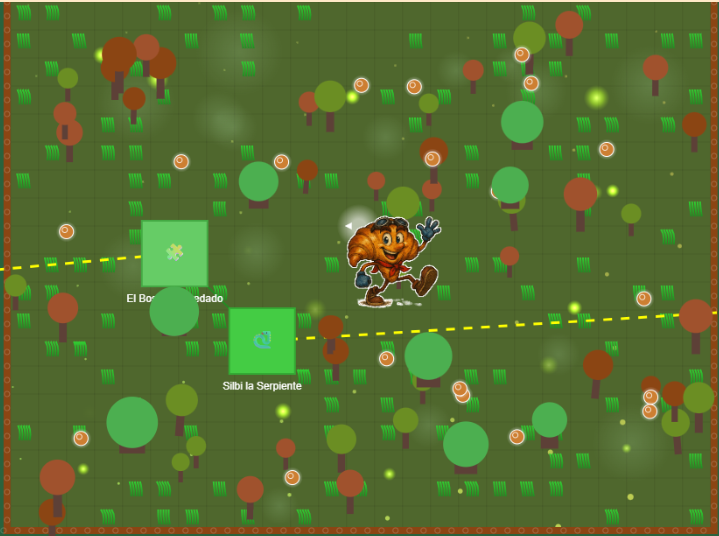
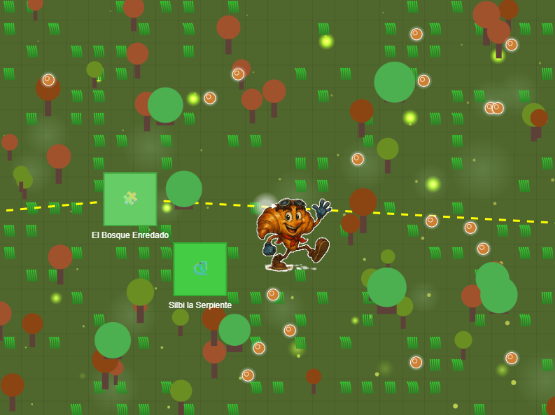
PUSH FINAL!
Arreglos de tarjetas y demo

diff --git a/CroissantAdventure/demo.html b/CroissantAdventure/demo.html
@@ -422,6 +422,24 @@
         overflow: hidden;
         background: #fff;
       }
+
+      /* Ajuste para el carrusel de minijuegos */
+      #minigames-carousel {
+        height: auto !important;
+        min-width: 300px;
+        display: flex;
+        justify-content: center;
+        align-items: center;
+        box-shadow: none !important;
+      }
+      #minigames-carousel img {
+        max-width: 100%;
+        max-height: 360px;
+        width: auto;
+        height: auto;
+        object-fit: contain;
+        box-shadow: none !important;
+      }
       </style>
 
       <script>
@@ -930,7 +948,7 @@ CroissantAdventure/
             </div>
           </div>
           <div class="slide-image">
-            <div id="map-carousel" style="position: relative; width: 100%; height: 300px; overflow: hidden; border-radius: 15px; box-shadow: 0 5px 15px var(--shadow-color);">
+            <div id="map-carousel" style="position: relative; width: 100%; height: 300px; overflow: hidden; border-radius: 15px; box-shadow: none;">
               <!-- Imágenes del carrusel generadas dinámicamente -->
             </div>
           </div>
@@ -943,58 +961,58 @@ CroissantAdventure/
           // Lista de regiones con sus descripciones
           const mapRegions = [
             { 
-              name: "Playa Caramelizada", 
+              name: "Jardín del Aprendiz", 
               image: "mapa1.png", 
+              fallbackImage: "mapa_despues.png",
+              description: "Un bonito jardín para todos los recién llegados a Migalandia. Perfecto para aprender las bases del juego y familiarizarse con los controles. ¡Completa el tutorial y prepárate para la aventura!"
+            },
+            { 
+              name: "Bosque Enredado de Migalandia", 
+              image: "mapa2.png", 
+              fallbackImage: "mapa_antes.png",
+              description: "Un denso bosque donde puedes perderte fácilmente. Alberga minijuegos de pensar como 'Bosque Enredado' donde hay que completar un laberinto, o alimentar a 'Silvi la Sssserpiente Golosa'."
+            },
+            { 
+              name: "Cielo Azucarado", 
+              image: "mapa3.png", 
+              fallbackImage: "ingame3.jpg",
+              description: "Un inmenso mar cubierta por un cielo de nubes de algodón de azúcar. Aquí se encuentran minijuegos como 'Los Burbujeadores del Cielo Azucarado' y 'Las Islas Flotantes de Bizcocho'"
+            },
+            { 
+              name: "Playa Caramelizada", 
+              image: "mapa4.png", 
               fallbackImage: "mapa_despues.png",
               description: "Región de playa con minijuegos acuáticos como Pescador Pastelero y Surfista Glaseado. Perfecta para aprender matemáticas y ortografía mientras se disfruta del sol."
             },
             { 
-              name: "Bosque de Galletas", 
-              image: "mapa2.png", 
-              fallbackImage: "mapa_antes.png",
-              description: "Un denso bosque donde los árboles son galletas gigantes. Alberga minijuegos de exploración como 'Explorador de Cuevas' que fomentan la curiosidad y resolución de enigmas."
-            },
-            { 
-              name: "Montañas de Merengue", 
-              image: "mapa3.png", 
-              fallbackImage: "ingame3.jpg",
-              description: "Altas montañas cubiertas de merengue donde los niños pueden practicar minijuegos de escalada y orientación espacial como 'Laberinto Mágico'."
-            },
-            { 
-              name: "Valle de Chocolate", 
-              image: "mapa4.png", 
-              fallbackImage: "ingame1.jpg",
-              description: "Un valle atravesado por ríos de chocolate. Aquí se encuentran minijuegos como 'Coleccionista de Monedas' para aprender conceptos de economía."
-            },
-            { 
-              name: "Ciudad Pastelera", 
+              name: "Reino Cuadriculado", 
               image: "mapa5.png", 
               fallbackImage: "ingame2.jpg",
-              description: "La metrópolis principal del mundo Croissant, con edificios de pasteles y calles de caramelo. Aquí se encuentran minijuegos como 'Trivia Pastelera' y 'Ajedrez de Croissant'."
+              description: "Un reino dirigido por un emperador, con minijuegos de la era medieval. Aquí se encuentran minijuegos como 'Los Guardianes del Reino Cuadriculado' y 'Los Guardianes del Castillo de Azúcar'."
             },
             { 
-              name: "Islas Flotantes", 
+              name: "Lago de la Fortuna", 
               image: "mapa6.png", 
               fallbackImage: "desarrollo1.png",
-              description: "Un archipiélago de islas que flotan en el cielo, conectadas por puentes de caramelo. Alberga minijuegos como 'Plataformas Dulces' que mejoran la coordinación."
-            },
-            { 
-              name: "Desierto Crujiente", 
-              image: "mapa7.png", 
-              fallbackImage: "desarrollo3.png",
-              description: "Un vasto desierto de azúcar con oasis de sirope. Incluye minijuegos como 'Carreras de Pasteles' que enseñan conceptos de velocidad y tiempo."
+              description: "Un pequeño lago situado a la afueras de Migalandia que contempla mucho oro en su interior. Alberga minijuegos como 'El Tesoro de Valle Dorado' y 'La Rueda de la Fortuna Mágica', que ayudan a conseguir unas monedas."
             },
             { 
               name: "Cavernas Glaseadas", 
-              image: "mapa8.png", 
+              image: "mapa7.png", 
               fallbackImage: "croisa_outfit2.png",
-              description: "Red de cavernas de glaseado con cristales de azúcar. Aquí se encuentran minijuegos como 'Memoria Dulce' que desarrollan la concentración."
+              description: "Red de cavernas de glaseado con cristales de azúcar. Aquí se encuentra el minijuego 'Explorador de Cuevas', que ayudar a tener la memoria fresca."
             },
             { 
-              name: "Polo Helado", 
+              name: "Villa de los Recuerdos", 
+              image: "mapa8.png", 
+              fallbackImage: "croisa_outfit2.png",
+              description: "Un lugar mágico donde los recuerdos cobran vida. Incluye minijuegos como 'El Misterio de las Cartas Gemelas' o 'La Orquesta Dulce de Migalandia', que fomentan la memoria y la atención."
+            },
+            { 
+              name: "Lavalandia, vecinos de Migalandia", 
               image: "mapa9.png", 
               fallbackImage: "croiso_outfit3.png",
-              description: "Región polar con glaciares de helado. Incluye minijuegos como 'Torre de Defensa' y 'Disparos Matemáticos' que fomentan el pensamiento lógico."
+              description: "Un agresivo volcán en erupción que no deja de tener actividad. Incluye minijuegos como 'Carrera de FOndant Ardiente' que ayudan a relajarse un poco."
             }
           ];
 
@@ -1013,9 +1031,9 @@ CroissantAdventure/
             const img = document.createElement('img');
             img.src = mapRegions[currentIndex].image;
             img.alt = mapRegions[currentIndex].name;
-            img.style.width = '100%';
-            img.style.height = '100%';
-            img.style.objectFit = 'cover';
+            img.style.width = '400px';
+            img.style.height = 'auto';
+            img.style.objectFit = 'contain';
             // Manejar error de imagen no encontrada
             img.onerror = function() {
               this.src = mapRegions[currentIndex].fallbackImage;
@@ -1054,7 +1072,7 @@ CroissantAdventure/
         <div class="slide-content">
           <div class="slide-text">
             <h2>Colección de Minijuegos</h2>
-            <p>Croissant Adventure ofrece <strong>17 minijuegos educativos</strong> que cubren diferentes áreas de aprendizaje:</p>
+            <p>Croissant Adventure ofrece <strong>18 minijuegos educativos</strong> que cubren diferentes áreas de aprendizaje:</p>
             <ul style="margin-top: 10px; margin-left: 20px;">
               <li>Matemáticas: Operaciones, lógica y resolución de problemas</li>
               <li>Lenguaje: Vocabulario, ortografía y lectura</li>
@@ -1103,7 +1121,8 @@ CroissantAdventure/
             { name: "Disparos Matemáticos", image: "minigames/shooter.jpg", description: "Juego de disparos donde se resuelven operaciones matemáticas." },
             { name: "Serpiente Numérica", image: "minigames/snake.jpg", description: "Versión educativa del clásico juego de la serpiente con retos matemáticos." },
             { name: "Torre de Defensa", image: "minigames/towerDefense.jpg", description: "Juego de estrategia que fomenta el pensamiento lógico y la planificación." },
-            { name: "Trivia Pastelera", image: "minigames/triviaGame.jpg", description: "Juego de preguntas y respuestas sobre diversos temas educativos." }
+            { name: "Trivia Pastelera", image: "minigames/triviaGame.jpg", description: "Juego de preguntas y respuestas sobre diversos temas educativos." },
+            { name: "Corredor de Lava Chocolatada", image: "minigames/lavaRunner.jpg", description: "Recolecta monedas de las plataformas pero, ¡CUIDADO QUE LA LAVA SUBE!" }
           ];
 
           // Crear elementos del carrusel
@@ -1121,9 +1140,9 @@ CroissantAdventure/
             const img = document.createElement('img');
             img.src = minigames[currentIndex].image;
             img.alt = minigames[currentIndex].name;
-            img.style.width = '100%';
-            img.style.height = '100%';
-            img.style.objectFit = 'cover';
+            img.style.width = '400px';
+            img.style.height = 'auto';
+            img.style.objectFit = 'contain';
             carousel.appendChild(img);
             
             // Actualizar contador

diff --git a/CroissantAdventure/juego_nuevo.html b/CroissantAdventure/juego_nuevo.html
@@ -382,19 +382,29 @@
         @import url('https://fonts.googleapis.com/css2?family=Fredoka+One&family=Baloo+2:wght@400;600;700&display=swap');
         
         #toggle-view-button {
-            background-color: #26547c;
-            display: flex;
-            align-items: center;
-            justify-content: center;
-            gap: 8px;
+            background: #fff;
+            color: #ef476f;
+            border: none;
+            border-radius: 8px;
+            padding: 8px 18px;
+            font-weight: 700;
+            font-size: 1rem;
+            cursor: pointer;
+            margin-right: 0;
+            margin-left: 32px;
+            z-index: 2;
+            transition: background 0.2s, transform 0.2s;
         }
-        
         #toggle-view-button:hover {
-            background-color: #1d3e5f;
+            background: #fff;
+            transform: scale(1.05);
         }
-        
-        #toggle-view-button.gallery-active {
-            background-color: #ef476f;
+        @media (max-width: 700px) {
+            #toggle-view-button {
+                padding: 6px 10px;
+                font-size: 0.9rem;
+                margin-left: 8px;
+            }
         }
         
         #games-gallery {
@@ -537,11 +547,9 @@
           <img id="main-character-img" class="header-outfit-img" src="" alt="Outfit">
           <span id="main-character-name" class="header-outfit-name"></span>
         </div>
+        <!-- Botón de alternar vista -->
+        <button id="toggle-view-button" class="toggle-view-btn">📷 Ver Juegos</button>
         <button id="logout-btn" class="header-logout-btn">Cerrar sesión</button>
-    </div>
-
-    <div class="top-buttons" style="top: 70px;">
-        <button id="toggle-view-button" style="font-family: 'Baloo 2', cursive;">📷 Cambiar vista</button>
     </div>
 
     <div class="container">
@@ -641,7 +649,7 @@
                         </div>
                     </div>    
                     <div class="game-item">
-                        <div class="game-card" style="background-image: url('minigames/nuevo3.jpg');" data-game="nuevo3">
+                        <div class="game-card" style="background-image: url('minigames/lavaRunner.jpg');" data-game="platform_lava">
                         </div>
                     </div>
                 </div>
@@ -923,6 +931,11 @@
                     name: "Corredor de carreras",
                     icon: "🏎",
                     description: "Corre en una carrera de velocidad."
+                },
+                platform_lava: {
+                    name: "Corredor de Lava Chocolatada",
+                    icon: "🌋",
+                    description: "Recolecta monedas de las plataformas pero, ¡CUIDADO QUE LA LAVA SUBE!"
                 },
 
             };
